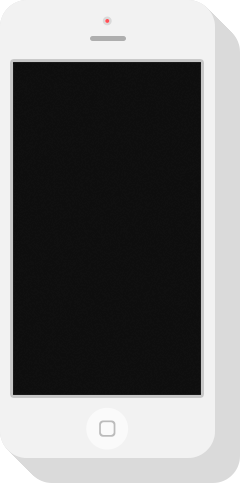
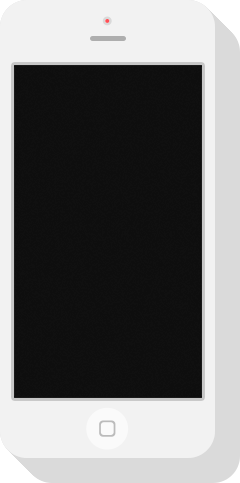
fix: pixel perfect

Changed region(s): [[0.0292, 0.1242, 0.875, 0.8385]]

diff --git a/style.css b/style.css
@@ -58,15 +58,19 @@
   padding-top: 8px;
 }
 
+.site-header__nav-item {
+  position: relative;
+  height: 30px;
+  margin-left: 28.67px;
+  margin-top: 18px;
+}
+
 .site-header__nav-item a {
   color: #ffffff;
   text-decoration: none;
   text-transform: uppercase;
-  margin-left: 28px;
-}
-
-.site-header__nav-item {
-  position: relative;
+  display: block;
+  height: 100%;
 }
 
 .site-header__nav-item:not(:last-child)::after {
@@ -75,8 +79,8 @@
   width: 5px;
   height: 5px;
   position: absolute;
-  right: -16px;
-  top: 0;
+  right: -18px;
+  top: -2px;
   color: #494e62;
 }
 
@@ -111,8 +115,8 @@
 }
 
 .phone--vertical .phone__display {
-  left: 13px;
-  top: 62px;
+  left: 14px;
+  top: 65px;
 }
 
 .phone--horizontal .phone__display {
@@ -129,12 +133,12 @@
 
 .slider__phone-left {
   position: relative;
-  left: -5px;
+  left: -6px;
 }
 
 .slider__phone-right {
   position: relative;
-  left: 6px;
+  left: 5px;
 }
 
 .slider .wrapper {
